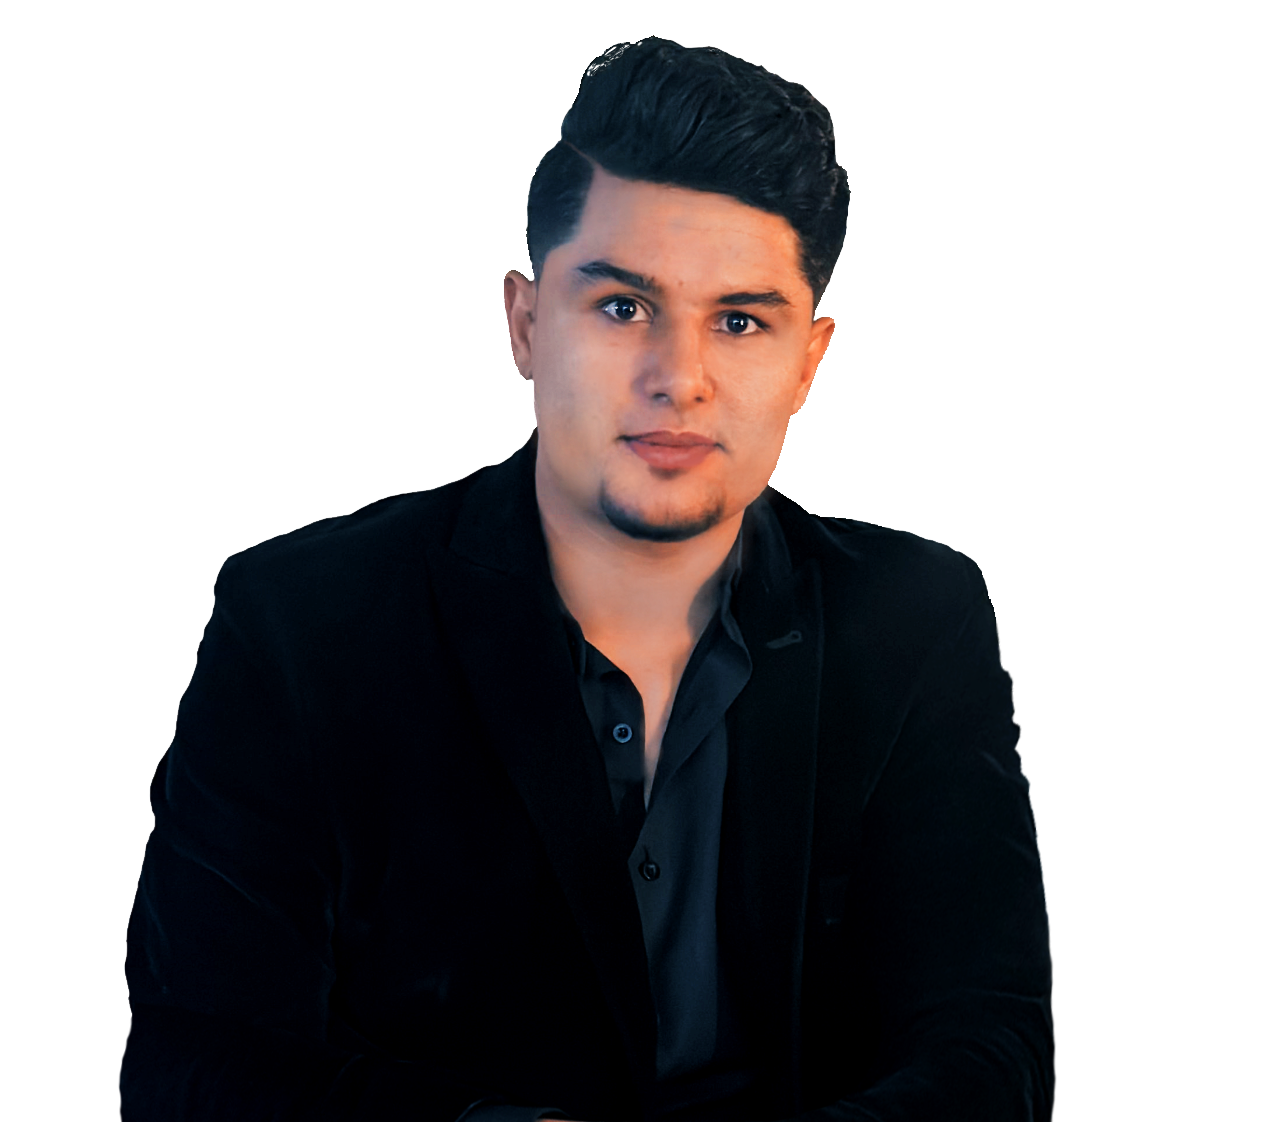
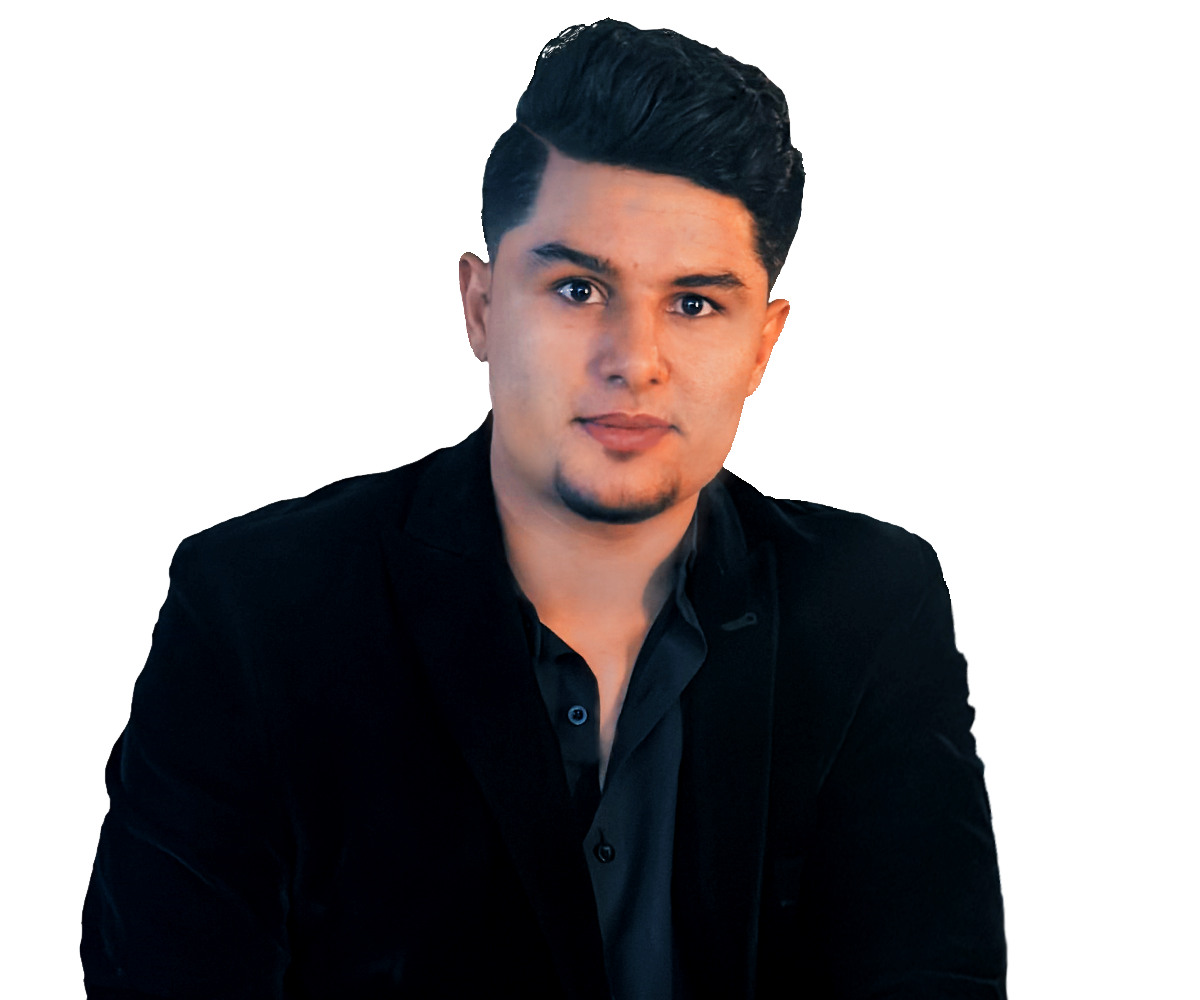
switch3

diff --git a/src/app/layout.jsx b/src/app/layout.jsx
@@ -34,7 +34,7 @@ export const metadata = {
       {
         url: "/og-image.png",
         width: 1200,
-        height: 630,
+        height: 1000,
         alt: "Eng : Gomaa Shaban",
       },
     ],
